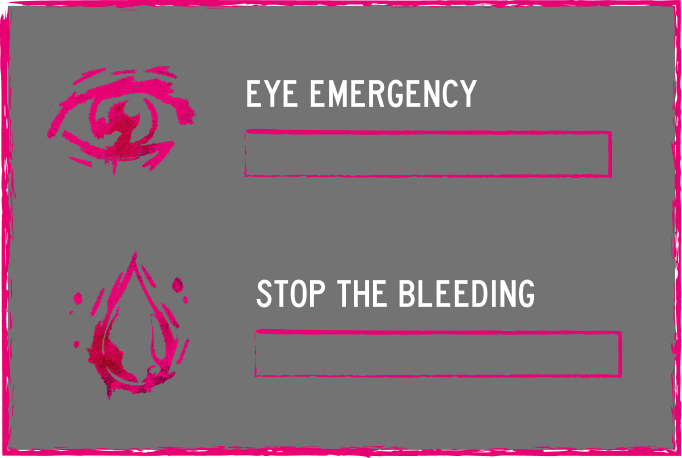
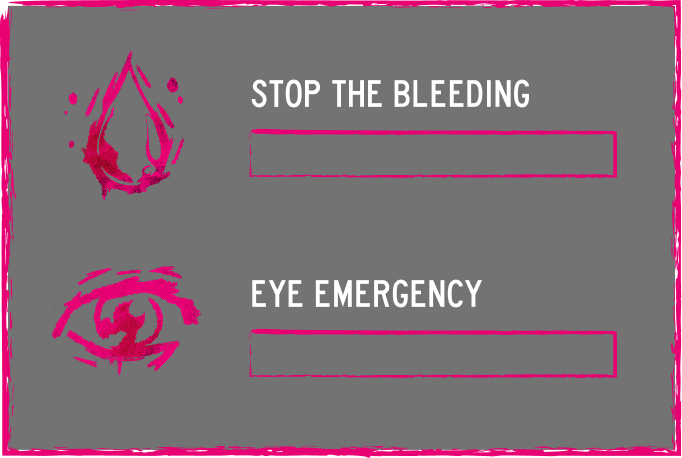
holy shit that was hell

diff --git a/public/sketch.js b/public/sketch.js
@@ -80,6 +80,7 @@ function preload() {
 
   headerImage = loadImage("media/images/VitalsBoardLogo.png");
   timerImage = loadImage("media/images/ClockLogo.png");
+  backgroundImage = loadImage("media/images/Background.png");
 
   //load sound
   sfx.connect = loadSound("media/audio/portConnect.mp3");
@@ -95,7 +96,7 @@ function preload() {
   bgmList = [sfx.bg1, sfx.bg2, sfx.bg3];
 
   //videos
-  taskVideo = createVideo("media/video/Background.mp4");
+  //taskVideo = createVideo("media/video/Background.mp4");
   finalVid = createVideo("media/video/EndScreen.mp4");
 
   //font
@@ -249,8 +250,8 @@ function setup() {
   initVideos();
 
   //task video
-  taskVideo.loop();
-  taskVideo.hide();
+  // taskVideo.loop();
+  // taskVideo.hide();
 
   // same-origin socket.io
   socket = io();
@@ -308,7 +309,7 @@ function draw() {
     lastNewTaskTimer = millis();
     allowNewTask = false;
   }
-  background(0);
+  image(backgroundImage, 0, 0, width, height);
 
   //draw video
   drawVideo();
@@ -543,14 +544,14 @@ function draw() {
 localStorage.setItem("sessionScore", JSON.stringify(scoreData));
 
 
-// ----- INTERACTION -----
+// ----- INTERACTION -----s
 
 // Fallback: if the browser still blocks it, a click will start playback
 function mousePressed() {
-  if (taskVideo && taskVideo.elt && taskVideo.elt.paused) {
-    taskVideo.elt.muted = true; // ensure still muted
-    taskVideo.play();
-  }
+  // if (taskVideo && taskVideo.elt && taskVideo.elt.paused) {
+  //   taskVideo.elt.muted = true; // ensure still muted
+  //   taskVideo.play();
+  // }
   //make sure audio works
   if (getAudioContext().state !== 'running') {
     getAudioContext().resume();

diff --git a/public/modules/ui.js b/public/modules/ui.js
@@ -67,21 +67,21 @@ window.drawStations = function ({
       //draw two bars
       const parts = st.parts;
 
-      if (parts[0] && window.daisyPartProgress < 1) {
+      if (parts[0] && daisyPartProgress < 1) {
         noStroke();
         fill(228, 44, 46);
 
         //clamp
-        const Progress1 = Math.min(window.daisyPartProgress, 1);
+        const Progress1 = Math.min(daisyPartProgress, 1);
         rect(barX, barY + 2, barW * Progress1, barH);
         //rect(barX, barY + 2, barW, barH);
       }
-      if (parts[1] && window.endPartProgress < 1) {
+      if (parts[1] && endPartProgress < 1) {
         noStroke();
         fill(228, 44, 46);
 
         //clamp
-        const Progress2 = Math.min(window.endPartProgress, 1);
+        const Progress2 = Math.min(endPartProgress, 1);
         rect(barX, barY + 71, barW * Progress2, barH);
         //rect(barX, barY + 71, barW, barH);
 

diff --git a/public/modules/video.js b/public/modules/video.js
@@ -2,11 +2,11 @@
 
 //initialize
 window.initVideos = function () {
-    taskVideo.volume(0);
-    taskVideo.elt.muted = true;
-    taskVideo.elt.setAttribute("playsinline", "");
-    taskVideo.loop();
-    taskVideo.hide();
+    // taskVideo.volume(0);
+    // taskVideo.elt.muted = true;
+    // taskVideo.elt.setAttribute("playsinline", "");
+    // taskVideo.loop();
+    // taskVideo.hide();
 
     finalVid.volume(0);
     finalVid.elt.muted = true;
@@ -35,7 +35,8 @@ window.playFinalVid = function () {
 window.drawVideo = function (video = "task") {
     if (video === "final") {
         if (finalVidPlay) image(finalVid, 0, 0, width, height);
-    } else {
-        if (taskVideo) image(taskVideo, 0, 0, width, height);
-    }
+    } 
+    // else {
+    //     if (taskVideo) image(taskVideo, 0, 0, width, height);
+    // }
 };
